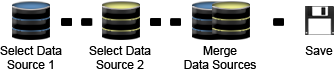
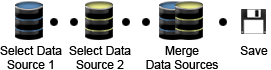
Image changes, minor UI restructure

diff --git a/source_selector.js b/source_selector.js
@@ -206,7 +206,7 @@ function generateSourceSelector(sourceNumber){
     //console.log("RemoveButtonPanel = ", removeButtonPanel);
     
     var source_info = Ext.create('Ext.Panel', {
-		 title: "Source Information", 
+		 title: "Source Successfully Added", 
 		 id: "sourceInfo"+sourceNumber, 
 		 defaults: {border: false},
 		 layout: { 
@@ -273,6 +273,7 @@ function generateSourceSelector(sourceNumber){
 	return source_selector;
 };
 
+/*
 var check = Ext.create('Ext.panel.Panel', {
 							id: "check",
 							width: 128,
@@ -283,15 +284,15 @@ var check = Ext.create('Ext.panel.Panel', {
 							bodyStyle: "background: transparent;",
 							html: "<img src='resources/images/check.png'/>"
 });
-
+*/
 
 var executeRemoveButton = function(sourceNum){
 	blankTemplate.overwrite("continue"+sourceNum, {});
-	Ext.getCmp("source_choice"+sourceNum).unmask();
+	Ext.getCmp("source_choice"+sourceNum).show();
 	//Ext.getCmp('add_button_panel'+sourceNum).show();
 	//Ext.getCmp('remove_button_panel'+sourceNum).hide();
 	Ext.getCmp("main_next").setDisabled(true);
-	check.hide();
+	//check.hide();
 	Ext.getCmp("sourceInfo"+sourceNum).hide();
 }
 
@@ -394,14 +395,13 @@ var executeAddButton = function(sourceNum){
 						//continueButton1.render('continueButton1');
 						Ext.getCmp("main_next").setDisabled(false);
 						//Ext.getCmp("urlButton"+sourceNum).setDisabled(true);
-						Ext.getCmp("source_choice"+sourceNum).mask();
+						Ext.getCmp("source_choice"+sourceNum).hide();
 						//Ext.getCmp('add_button_panel'+sourceNum).hide();
 						//Ext.getCmp('remove_button_panel'+sourceNum).show();
 						
-						urlPanel = Ext.get('urlPanel'+sourceNum);
-						console.log(check);
-						check.show();
-						check.alignTo(urlPanel, "c-c");
+						//urlPanel = Ext.get('urlPanel'+sourceNum);
+						//check.show();
+						//check.alignTo(urlPanel, "c-c");
 						Ext.getCmp("sourceInfo"+sourceNum).show();
 						
 						

diff --git a/logic.js b/logic.js
@@ -325,7 +325,7 @@ var executeStep = function(stepNumber){
 			var num = 2;
 			var source_attribute = source_attribute2;
 		}
-		check.hide();
+		//check.hide();
 		
 		data_store.each(function(record,idx){
 			 //console.log("new card with: ", record.data);
